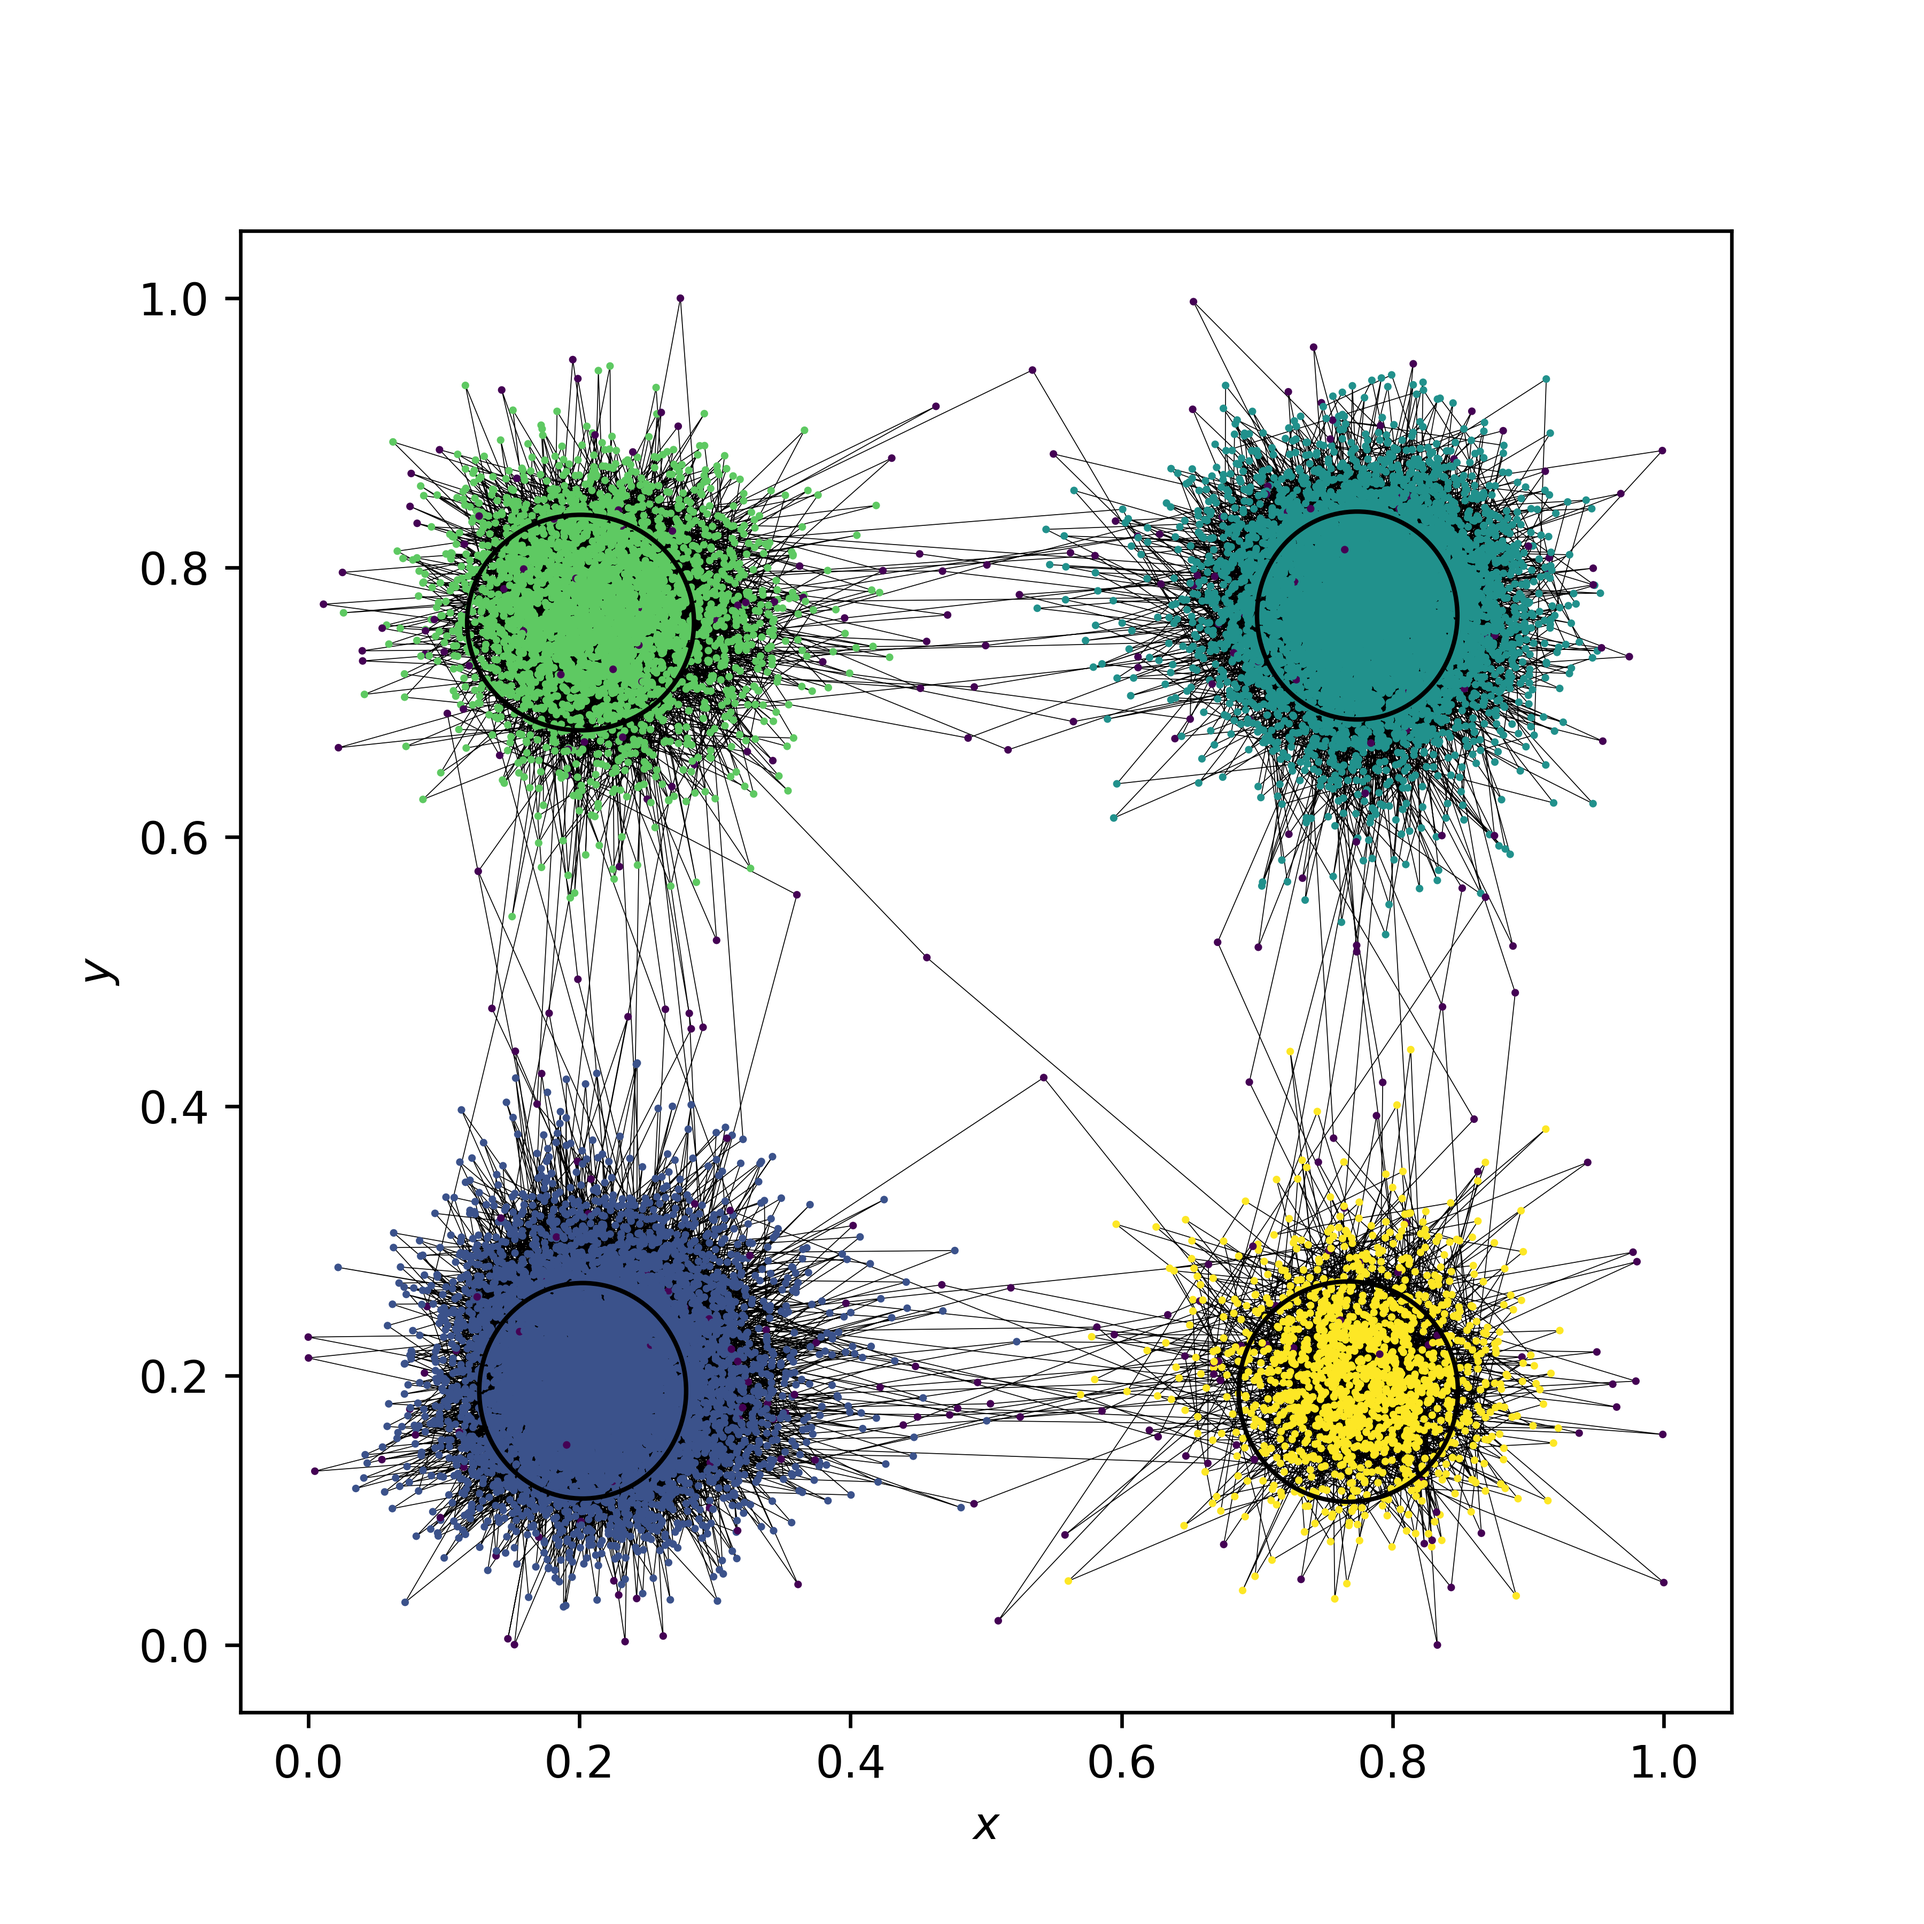
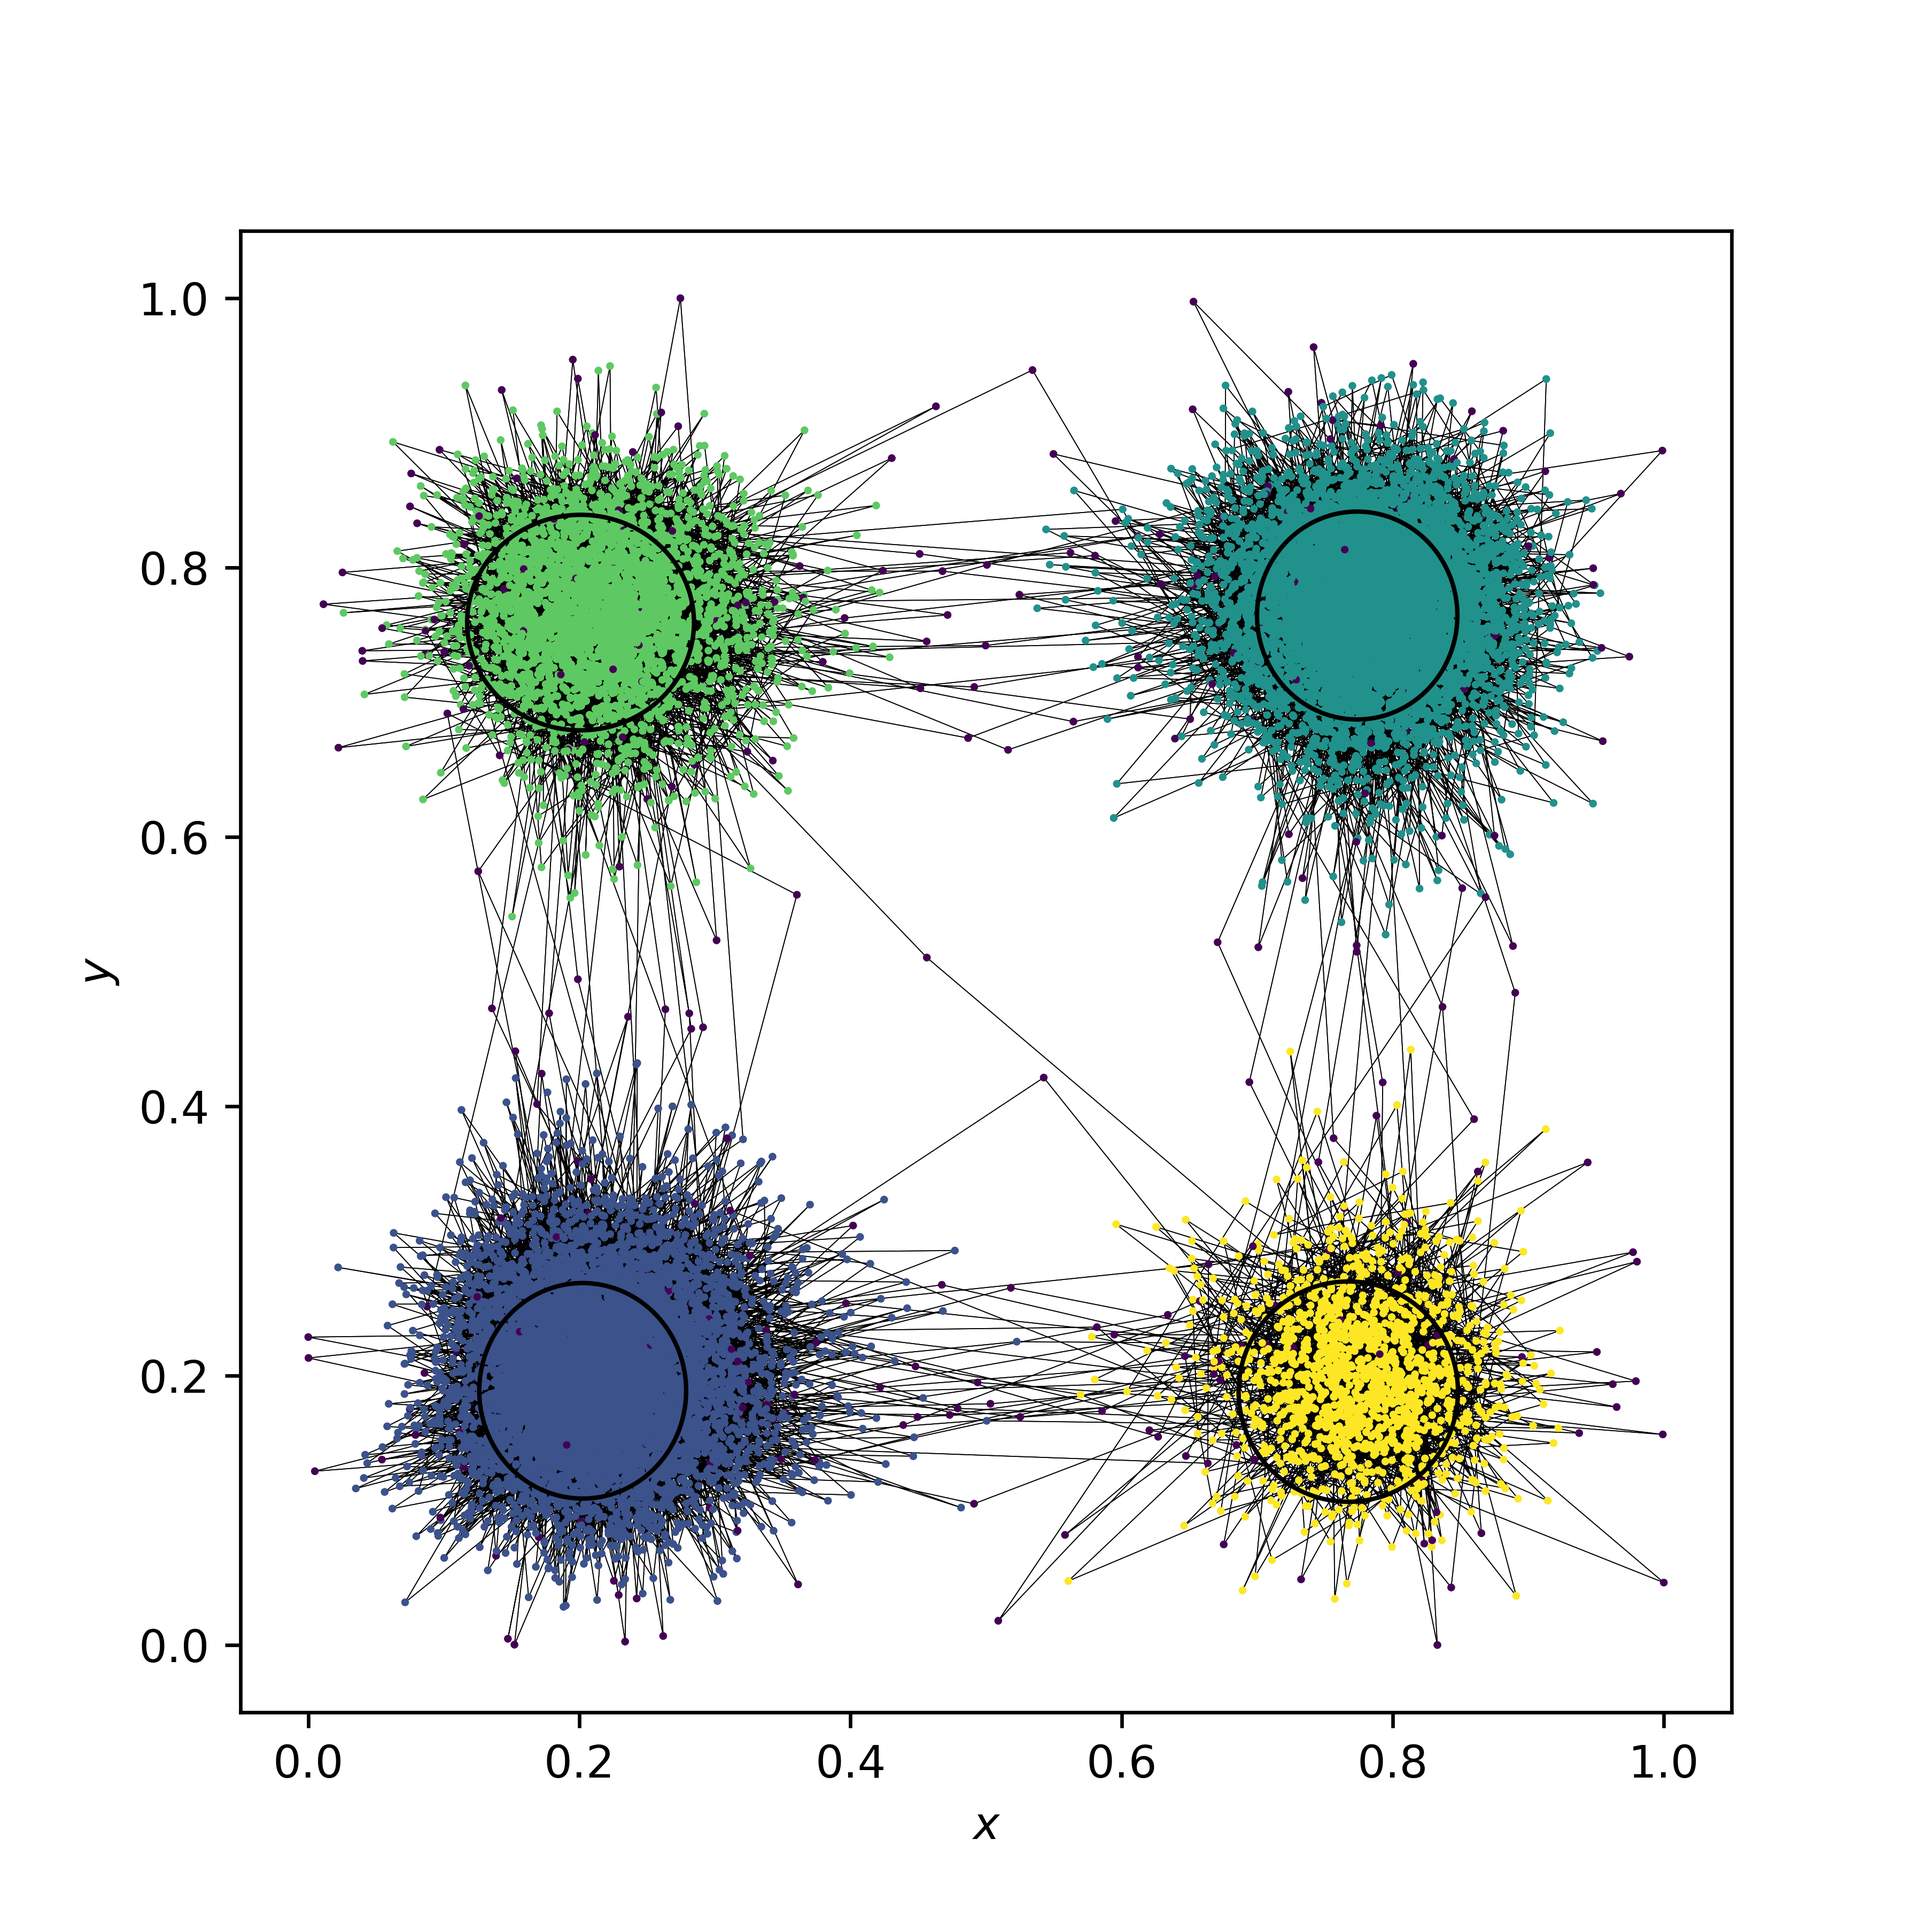
Showing limit trajs in Fig2

Changed region(s): [[0.1867, 0.56, 0.84, 0.84], [0.1867, 0.2178, 0.4978, 0.4667], [0.5289, 0.1867, 0.8089, 0.4978]]

diff --git a/2D-main.py b/2D-main.py
@@ -498,12 +498,26 @@ def plot_cumulative_figure(M, PAR, all_the_labels, list_of_states, filename):
 		ax = plt.axes()
 
 		# Plot the individual trajectories
+		ID_max, ID_min = 0, 0
+		for idx, mol in enumerate(M):
+			if np.max(mol) == np.max(M):
+				ID_max = idx
+			if np.min(mol) == np.min(M):
+				ID_min = idx
+
 		step = 5 if M.size > 1000000 else 1
 		max_T = all_the_labels.shape[1]
 		for i, mol in enumerate(M[::step]):
 			ax.plot(mol.T[0,:max_T], mol.T[1,:max_T], c='black', lw=0.2, rasterized=True, zorder=0)
 			c = [ int(l) for l in all_the_labels[i*step] ]
 			ax.scatter(mol.T[0,:max_T], mol.T[1,:max_T], c=c, cmap=colormap, vmin=0, vmax=n_states-1, s=0.5, rasterized=True)
+
+		c = [ int(l) for l in all_the_labels[ID_min] ]
+		ax.plot(M[ID_min].T[0,:max_T], M[ID_min].T[1,:max_T], c='black', lw=0.2, rasterized=True, zorder=0)
+		ax.scatter(M[ID_min].T[0,:max_T], M[ID_min].T[1,:max_T], c=c, cmap=colormap, vmin=0, vmax=n_states-1, s=0.5, rasterized=True)
+		c = [ int(l) for l in all_the_labels[ID_max] ]
+		ax.plot(M[ID_max].T[0,:max_T], M[ID_max].T[1,:max_T], c='black', lw=0.2, rasterized=True, zorder=0)
+		ax.scatter(M[ID_max].T[0,:max_T], M[ID_max].T[1,:max_T], c=c, cmap=colormap, vmin=0, vmax=n_states-1, s=0.5, rasterized=True)
 
 		# Plot the Gaussian distributions of states
 		for S_id, S in enumerate(list_of_states):
@@ -635,7 +649,7 @@ def TRA_analysis(M_raw, PAR, perform_anew):
 
 def main():
 	M_raw, PAR = all_the_input_stuff()
-	TRA_analysis(M_raw, PAR, True)
+	TRA_analysis(M_raw, PAR, False)
 	full_output_analysis(M_raw, PAR)
 
 if __name__ == "__main__":
